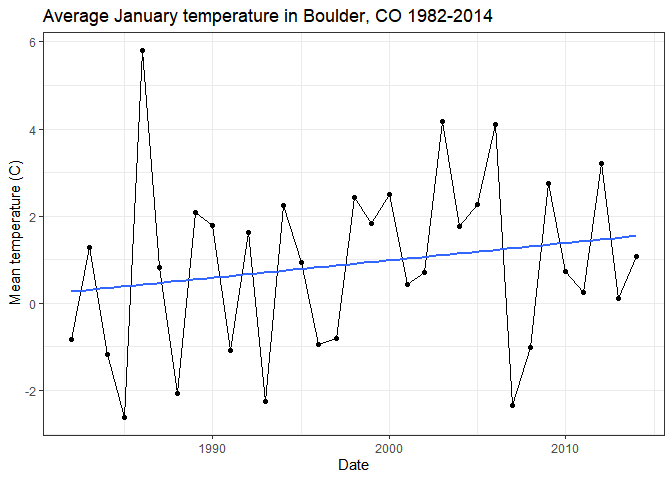
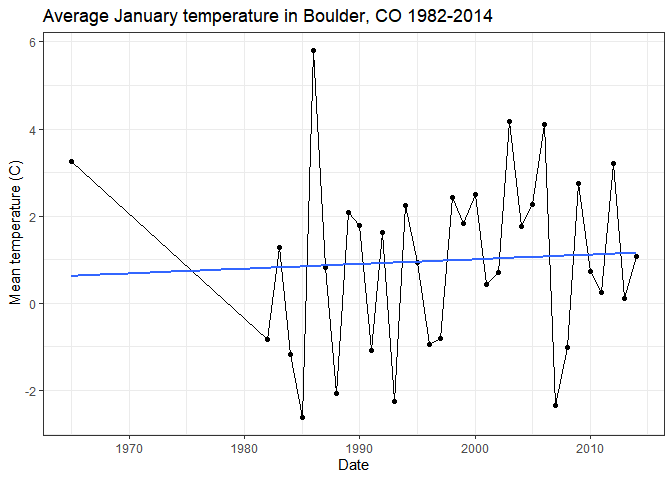
vpdmin and vpdmax are available in all get_* functions

diff --git a/README.md b/README.md
@@ -42,18 +42,17 @@ different temporal parameters, the type options are always the same.
 Keep in mind these are modeled parameters, not measured. Please see the
 [full
 description](http://www.prism.oregonstate.edu/documents/Daly2008_PhysiographicMapping_IntJnlClim.pdf)
-for how they are
-calculated.
+for how they are calculated.
 
-| Parameter name |                                           Descrption                                            |
-| :------------: | :---------------------------------------------------------------------------------------------: |
-|    *tmean*     |                                        Mean temperature                                         |
-|     *tmax*     |                                       Maximum temperature                                       |
-|     *tmin*     |                                       Minimum temperature                                       |
-|    *tdmean*    |                                    Mean dewpoint temperature                                    |
-|     *ppt*      |                               Total precipitation (Rain and snow)                               |
-|    *vpdmin*    | Daily minimum vapor pressure deficit \[averaged over all days in the month - normal data only\] |
-|    *vpdmax*    | Daily maximum vapor pressure deficit \[averaged over all days in the month - normal data only\] |
+| Parameter name |              Descrption              |
+| :------------: | :----------------------------------: |
+|    *tmean*     |           Mean temperature           |
+|     *tmax*     |         Maximum temperature          |
+|     *tmin*     |         Minimum temperature          |
+|    *tdmean*    |      Mean dewpoint temperature       |
+|     *ppt*      | Total precipitation (Rain and snow)  |
+|    *vpdmin*    | Daily minimum vapor pressure deficit |
+|    *vpdmax*    | Daily maximum vapor pressure deficit |
 
 **Normal data**
 
@@ -64,8 +63,21 @@ an average for all 30 years.
 
 ``` r
 library(prism)
+#> Be sure to set the download folder using `prism_set_dl_dir()`.
 options(prism.path = "~/prismtmp")
 get_prism_normals(type="tmean",resolution = "4km",mon = 1:6, keepZip=F)
+#> 
+#> PRISM_tmean_30yr_normal_4kmM2_01_bil.zip already exists. Skipping downloading.
+#> 
+#> PRISM_tmean_30yr_normal_4kmM2_02_bil.zip already exists. Skipping downloading.
+#> 
+#> PRISM_tmean_30yr_normal_4kmM2_03_bil.zip already exists. Skipping downloading.
+#> 
+#> PRISM_tmean_30yr_normal_4kmM2_04_bil.zip already exists. Skipping downloading.
+#> 
+#> PRISM_tmean_30yr_normal_4kmM2_05_bil.zip already exists. Skipping downloading.
+#> 
+#> PRISM_tmean_30yr_normal_4kmM2_06_bil.zip already exists. Skipping downloading.
 ```
 
 The first thing to note is that you’ll need to set a local location to
@@ -81,16 +93,16 @@ files.
 ``` r
 ## Truncated to keep file list short
 ls_prism_data()[1:10,]
-#>  [1] "PRISM_tdmean_stable_4kmM3_201001_bil"  
-#>  [2] "PRISM_tdmean_stable_4kmM3_201002_bil"  
-#>  [3] "PRISM_tmean_30yr_normal_4kmM2_01_bil"  
-#>  [4] "PRISM_tmean_30yr_normal_4kmM2_02_bil"  
-#>  [5] "PRISM_tmean_30yr_normal_4kmM2_03_bil"  
-#>  [6] "PRISM_tmean_30yr_normal_4kmM2_04_bil"  
-#>  [7] "PRISM_tmean_30yr_normal_4kmM2_05_bil"  
-#>  [8] "PRISM_tmean_30yr_normal_4kmM2_06_bil"  
-#>  [9] "PRISM_vpdmax_stable_4kmD2_20100101_bil"
-#> [10] "PRISM_vpdmin_stable_4kmM3_2010_bil"
+#>  [1] "PRISM_ppt_stable_4kmM2_1965_bil"  
+#>  [2] "PRISM_ppt_stable_4kmM2_196501_bil"
+#>  [3] "PRISM_ppt_stable_4kmM2_196502_bil"
+#>  [4] "PRISM_ppt_stable_4kmM2_196503_bil"
+#>  [5] "PRISM_ppt_stable_4kmM2_196504_bil"
+#>  [6] "PRISM_ppt_stable_4kmM2_196505_bil"
+#>  [7] "PRISM_ppt_stable_4kmM2_196506_bil"
+#>  [8] "PRISM_ppt_stable_4kmM2_196507_bil"
+#>  [9] "PRISM_ppt_stable_4kmM2_196508_bil"
+#> [10] "PRISM_ppt_stable_4kmM2_196509_bil"
 ```
 
 While internal plotting functions use this, other files may want an
@@ -101,52 +113,52 @@ that parameter is `name`.
 
 ``` r
 ls_prism_data(absPath = TRUE)[1:10,]
-#>                                     files
-#> 1    PRISM_tdmean_stable_4kmM3_201001_bil
-#> 2    PRISM_tdmean_stable_4kmM3_201002_bil
-#> 3    PRISM_tmean_30yr_normal_4kmM2_01_bil
-#> 4    PRISM_tmean_30yr_normal_4kmM2_02_bil
-#> 5    PRISM_tmean_30yr_normal_4kmM2_03_bil
-#> 6    PRISM_tmean_30yr_normal_4kmM2_04_bil
-#> 7    PRISM_tmean_30yr_normal_4kmM2_05_bil
-#> 8    PRISM_tmean_30yr_normal_4kmM2_06_bil
-#> 9  PRISM_vpdmax_stable_4kmD2_20100101_bil
-#> 10     PRISM_vpdmin_stable_4kmM3_2010_bil
-#>                                                                                        abs_path
-#> 1      ~/prismtmp/PRISM_tdmean_stable_4kmM3_201001_bil/PRISM_tdmean_stable_4kmM3_201001_bil.bil
-#> 2      ~/prismtmp/PRISM_tdmean_stable_4kmM3_201002_bil/PRISM_tdmean_stable_4kmM3_201002_bil.bil
-#> 3      ~/prismtmp/PRISM_tmean_30yr_normal_4kmM2_01_bil/PRISM_tmean_30yr_normal_4kmM2_01_bil.bil
-#> 4      ~/prismtmp/PRISM_tmean_30yr_normal_4kmM2_02_bil/PRISM_tmean_30yr_normal_4kmM2_02_bil.bil
-#> 5      ~/prismtmp/PRISM_tmean_30yr_normal_4kmM2_03_bil/PRISM_tmean_30yr_normal_4kmM2_03_bil.bil
-#> 6      ~/prismtmp/PRISM_tmean_30yr_normal_4kmM2_04_bil/PRISM_tmean_30yr_normal_4kmM2_04_bil.bil
-#> 7      ~/prismtmp/PRISM_tmean_30yr_normal_4kmM2_05_bil/PRISM_tmean_30yr_normal_4kmM2_05_bil.bil
-#> 8      ~/prismtmp/PRISM_tmean_30yr_normal_4kmM2_06_bil/PRISM_tmean_30yr_normal_4kmM2_06_bil.bil
-#> 9  ~/prismtmp/PRISM_vpdmax_stable_4kmD2_20100101_bil/PRISM_vpdmax_stable_4kmD2_20100101_bil.bil
-#> 10         ~/prismtmp/PRISM_vpdmin_stable_4kmM3_2010_bil/PRISM_vpdmin_stable_4kmM3_2010_bil.bil
+#>                                files
+#> 1    PRISM_ppt_stable_4kmM2_1965_bil
+#> 2  PRISM_ppt_stable_4kmM2_196501_bil
+#> 3  PRISM_ppt_stable_4kmM2_196502_bil
+#> 4  PRISM_ppt_stable_4kmM2_196503_bil
+#> 5  PRISM_ppt_stable_4kmM2_196504_bil
+#> 6  PRISM_ppt_stable_4kmM2_196505_bil
+#> 7  PRISM_ppt_stable_4kmM2_196506_bil
+#> 8  PRISM_ppt_stable_4kmM2_196507_bil
+#> 9  PRISM_ppt_stable_4kmM2_196508_bil
+#> 10 PRISM_ppt_stable_4kmM2_196509_bil
+#>                                                                              abs_path
+#> 1      ~/prismtmp/PRISM_ppt_stable_4kmM2_1965_bil/PRISM_ppt_stable_4kmM2_1965_bil.bil
+#> 2  ~/prismtmp/PRISM_ppt_stable_4kmM2_196501_bil/PRISM_ppt_stable_4kmM2_196501_bil.bil
+#> 3  ~/prismtmp/PRISM_ppt_stable_4kmM2_196502_bil/PRISM_ppt_stable_4kmM2_196502_bil.bil
+#> 4  ~/prismtmp/PRISM_ppt_stable_4kmM2_196503_bil/PRISM_ppt_stable_4kmM2_196503_bil.bil
+#> 5  ~/prismtmp/PRISM_ppt_stable_4kmM2_196504_bil/PRISM_ppt_stable_4kmM2_196504_bil.bil
+#> 6  ~/prismtmp/PRISM_ppt_stable_4kmM2_196505_bil/PRISM_ppt_stable_4kmM2_196505_bil.bil
+#> 7  ~/prismtmp/PRISM_ppt_stable_4kmM2_196506_bil/PRISM_ppt_stable_4kmM2_196506_bil.bil
+#> 8  ~/prismtmp/PRISM_ppt_stable_4kmM2_196507_bil/PRISM_ppt_stable_4kmM2_196507_bil.bil
+#> 9  ~/prismtmp/PRISM_ppt_stable_4kmM2_196508_bil/PRISM_ppt_stable_4kmM2_196508_bil.bil
+#> 10 ~/prismtmp/PRISM_ppt_stable_4kmM2_196509_bil/PRISM_ppt_stable_4kmM2_196509_bil.bil
 
 ls_prism_data(name = TRUE)[1:10,]
-#>                                     files
-#> 1    PRISM_tdmean_stable_4kmM3_201001_bil
-#> 2    PRISM_tdmean_stable_4kmM3_201002_bil
-#> 3    PRISM_tmean_30yr_normal_4kmM2_01_bil
-#> 4    PRISM_tmean_30yr_normal_4kmM2_02_bil
-#> 5    PRISM_tmean_30yr_normal_4kmM2_03_bil
-#> 6    PRISM_tmean_30yr_normal_4kmM2_04_bil
-#> 7    PRISM_tmean_30yr_normal_4kmM2_05_bil
-#> 8    PRISM_tmean_30yr_normal_4kmM2_06_bil
-#> 9  PRISM_vpdmax_stable_4kmD2_20100101_bil
-#> 10     PRISM_vpdmin_stable_4kmM3_2010_bil
-#>                                               product_name
-#> 1                      Jan  2010 - 4km resolution - tdmean
-#> 2                      Feb  2010 - 4km resolution - tdmean
-#> 3  Jan 30-year normals - 4km resolution - Mean temperature
-#> 4  Feb 30-year normals - 4km resolution - Mean temperature
-#> 5  Mar 30-year normals - 4km resolution - Mean temperature
-#> 6  Apr 30-year normals - 4km resolution - Mean temperature
-#> 7  May 30-year normals - 4km resolution - Mean temperature
-#> 8  Jun 30-year normals - 4km resolution - Mean temperature
-#> 9                    Jan 01 2010 - 4km resolution - vpdmax
-#> 10                          2010 - 4km resolution - vpdmin
+#>                                files
+#> 1    PRISM_ppt_stable_4kmM2_1965_bil
+#> 2  PRISM_ppt_stable_4kmM2_196501_bil
+#> 3  PRISM_ppt_stable_4kmM2_196502_bil
+#> 4  PRISM_ppt_stable_4kmM2_196503_bil
+#> 5  PRISM_ppt_stable_4kmM2_196504_bil
+#> 6  PRISM_ppt_stable_4kmM2_196505_bil
+#> 7  PRISM_ppt_stable_4kmM2_196506_bil
+#> 8  PRISM_ppt_stable_4kmM2_196507_bil
+#> 9  PRISM_ppt_stable_4kmM2_196508_bil
+#> 10 PRISM_ppt_stable_4kmM2_196509_bil
+#>                                  product_name
+#> 1       1965 - 4km resolution - Precipitation
+#> 2  Jan  1965 - 4km resolution - Precipitation
+#> 3  Feb  1965 - 4km resolution - Precipitation
+#> 4  Mar  1965 - 4km resolution - Precipitation
+#> 5  Apr  1965 - 4km resolution - Precipitation
+#> 6  May  1965 - 4km resolution - Precipitation
+#> 7  Jun  1965 - 4km resolution - Precipitation
+#> 8  Jul  1965 - 4km resolution - Precipitation
+#> 9  Aug  1965 - 4km resolution - Precipitation
+#> 10 Sep  1965 - 4km resolution - Precipitation
 ```
 
 You can easily make a quick plot of your data to using the output of
@@ -186,6 +198,72 @@ library(ggplot2)
 boulder <- c(-105.2797,40.0176)
 ## Get data.
 get_prism_monthlys(type="tmean", year = 1982:2014, mon = 1, keepZip=F)
+#> 
+#> PRISM_tmean_stable_4kmM3_198201_bil.zip already exists. Skipping downloading.
+#> 
+#> PRISM_tmean_stable_4kmM3_198301_bil.zip already exists. Skipping downloading.
+#> 
+#> PRISM_tmean_stable_4kmM3_198401_bil.zip already exists. Skipping downloading.
+#> 
+#> PRISM_tmean_stable_4kmM3_198501_bil.zip already exists. Skipping downloading.
+#> 
+#> PRISM_tmean_stable_4kmM3_198601_bil.zip already exists. Skipping downloading.
+#> 
+#> PRISM_tmean_stable_4kmM3_198701_bil.zip already exists. Skipping downloading.
+#> 
+#> PRISM_tmean_stable_4kmM3_198801_bil.zip already exists. Skipping downloading.
+#> 
+#> PRISM_tmean_stable_4kmM3_198901_bil.zip already exists. Skipping downloading.
+#> 
+#> PRISM_tmean_stable_4kmM3_199001_bil.zip already exists. Skipping downloading.
+#> 
+#> PRISM_tmean_stable_4kmM3_199101_bil.zip already exists. Skipping downloading.
+#> 
+#> PRISM_tmean_stable_4kmM3_199201_bil.zip already exists. Skipping downloading.
+#> 
+#> PRISM_tmean_stable_4kmM3_199301_bil.zip already exists. Skipping downloading.
+#> 
+#> PRISM_tmean_stable_4kmM3_199401_bil.zip already exists. Skipping downloading.
+#> 
+#> PRISM_tmean_stable_4kmM3_199501_bil.zip already exists. Skipping downloading.
+#> 
+#> PRISM_tmean_stable_4kmM3_199601_bil.zip already exists. Skipping downloading.
+#> 
+#> PRISM_tmean_stable_4kmM3_199701_bil.zip already exists. Skipping downloading.
+#> 
+#> PRISM_tmean_stable_4kmM3_199801_bil.zip already exists. Skipping downloading.
+#> 
+#> PRISM_tmean_stable_4kmM3_199901_bil.zip already exists. Skipping downloading.
+#> 
+#> PRISM_tmean_stable_4kmM3_200001_bil.zip already exists. Skipping downloading.
+#> 
+#> PRISM_tmean_stable_4kmM3_200101_bil.zip already exists. Skipping downloading.
+#> 
+#> PRISM_tmean_stable_4kmM3_200201_bil.zip already exists. Skipping downloading.
+#> 
+#> PRISM_tmean_stable_4kmM3_200301_bil.zip already exists. Skipping downloading.
+#> 
+#> PRISM_tmean_stable_4kmM3_200401_bil.zip already exists. Skipping downloading.
+#> 
+#> PRISM_tmean_stable_4kmM3_200501_bil.zip already exists. Skipping downloading.
+#> 
+#> PRISM_tmean_stable_4kmM3_200601_bil.zip already exists. Skipping downloading.
+#> 
+#> PRISM_tmean_stable_4kmM3_200701_bil.zip already exists. Skipping downloading.
+#> 
+#> PRISM_tmean_stable_4kmM3_200801_bil.zip already exists. Skipping downloading.
+#> 
+#> PRISM_tmean_stable_4kmM3_200901_bil.zip already exists. Skipping downloading.
+#> 
+#> PRISM_tmean_stable_4kmM3_201001_bil.zip already exists. Skipping downloading.
+#> 
+#> PRISM_tmean_stable_4kmM3_201101_bil.zip already exists. Skipping downloading.
+#> 
+#> PRISM_tmean_stable_4kmM3_201201_bil.zip already exists. Skipping downloading.
+#> 
+#> PRISM_tmean_stable_4kmM3_201301_bil.zip already exists. Skipping downloading.
+#> 
+#> PRISM_tmean_stable_4kmM3_201401_bil.zip already exists. Skipping downloading.
 ## We'll use regular expressions to grep through the list and get data only from the month of January
 to_slice <- grep("_[0-9]{4}[0][1]",ls_prism_data()[,1],value=T)
 to_slice = grep("tmean",to_slice, value = T)
@@ -210,7 +288,7 @@ jnorm <- ls_prism_data(absPath=T)[1,2]
 j2013 <- ls_prism_data(absPath=T)[52,2]
 ## See that the full path is returned
 jnorm
-#> [1] "~/prismtmp/PRISM_tdmean_stable_4kmM3_201001_bil/PRISM_tdmean_stable_4kmM3_201001_bil.bil"
+#> [1] "~/prismtmp/PRISM_ppt_stable_4kmM2_1965_bil/PRISM_ppt_stable_4kmM2_1965_bil.bil"
 ## Now we'll load the rasters.
 jnorm_rast <- raster(jnorm)
 j2013_rast <- raster(j2013)
